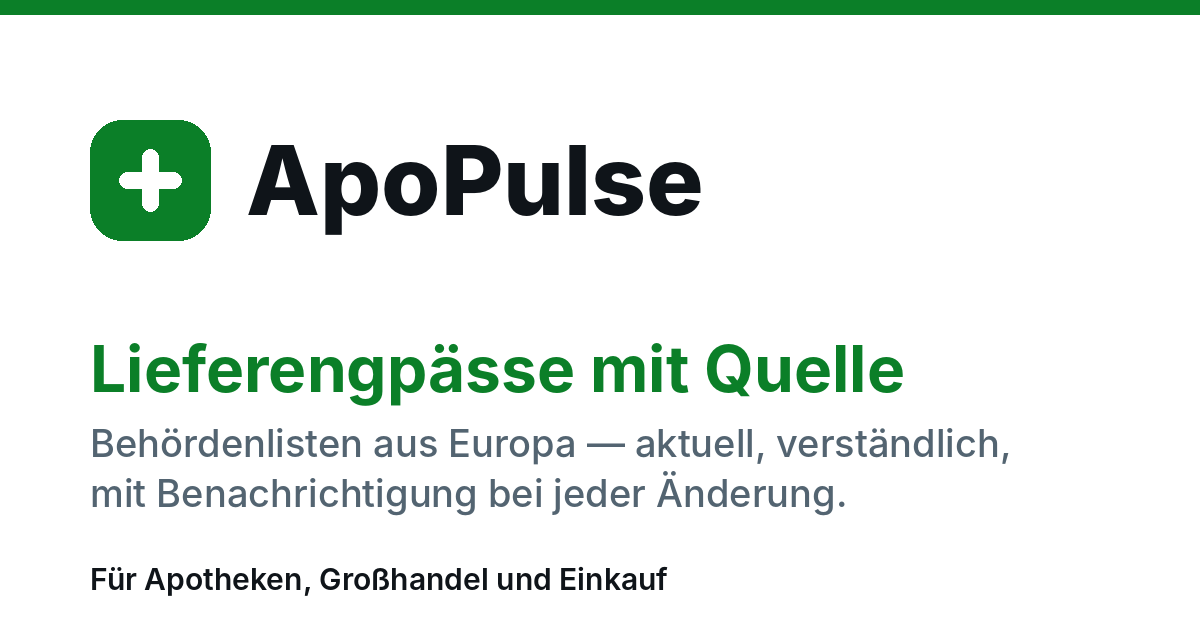
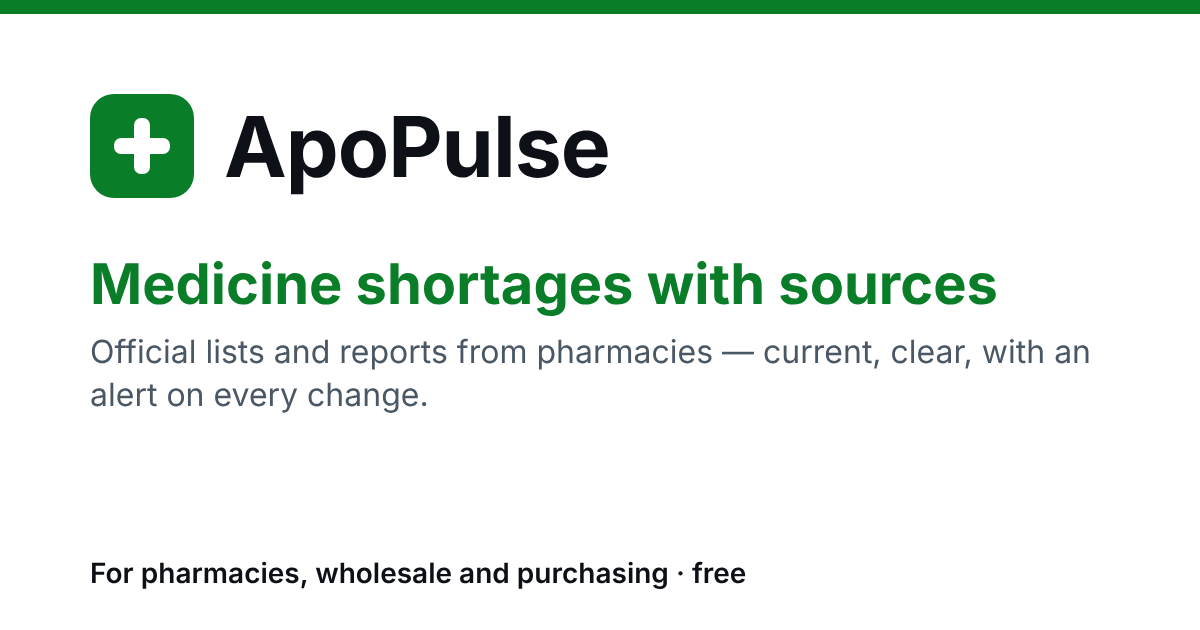
Vorschaubild beim Teilen in 5 Sprachen statt deutsch „aus Europa"
WhatsApp/Facebook/Telegram zeigten überall ein deutsches Bild („Behörden-
listen aus Europa") — auch in Ghana, Senegal, Ägypten. Jetzt og-bild-<sp>.png
(de/en/fr/pt/ar, 1200×630, erzeugt mit tools/og-bilder.mjs inkl. Überlauf-
und Überlappungsprüfung). Startseite nach Browsersprache, Teil- und
öffentliche Seiten nach Sprache der Seite, sonst Englisch; og-bild.png =
Englisch für alte Links. Tests: startseite-kopf, teilseite,
oeffentliche-seiten; Audit-Regel angepasst.

Claude-Session: https://claude.ai/code/session_01LkHA6azEL6CUgJiqn3gc6u

diff --git a/server/test/startseite-kopf.test.js b/server/test/startseite-kopf.test.js
@@ -35,7 +35,15 @@ test('Über HTTP: Kopf je Sprache, absolutes Vorschaubild, eigener ETag, App-Inh
     const en = await hol('en-UG,en;q=0.9');
     assert.match(en.t, /<meta property="og:title" content="ApoPulse — medicine shortages with sources" \/>/);
     assert.ok(!/aus Europa/.test(en.t), 'englische Vorschau mit „aus Europa"');
-    assert.match(en.t, /<meta property="og:image" content="https:\/\/apopulse\.example\/og-bild\.png" \/>/);
+    assert.match(en.t, /<meta property="og:image" content="https:\/\/apopulse\.example\/og-bild-en\.png" \/>/);
+    // Vorschaubild in der Sprache: französisch für Senegal/Côte d'Ivoire, arabisch für Ägypten.
+    assert.match((await hol('fr-SN,fr;q=0.9')).t, /<meta property="og:image" content="https:\/\/apopulse\.example\/og-bild-fr\.png" \/>/);
+    assert.match((await hol('ar-EG')).t, /og-bild-ar\.png/);
+    for (const sp of ['de', 'en', 'fr', 'pt', 'ar', '']) {
+      const bild = await fetch(B + '/og-bild' + (sp ? '-' + sp : '') + '.png');
+      assert.equal(bild.status, 200, sp); assert.equal(bild.headers.get('content-type'), 'image/png');
+      assert.ok((await bild.arrayBuffer()).byteLength > 20000, 'Bild leer: ' + sp);
+    }
     assert.match(en.r.headers.get('vary') || '', /Accept-Language/);
     const de = await hol('de-AT,de;q=0.9');
     assert.match(de.t, /og:title" content="ApoPulse — Lieferengpässe mit Quelle"/);
@@ -62,4 +70,17 @@ test('Manifest: Name und Schnellzugriffe in der Sprache des Browsers, kein Schne
   assert.ok(en.screenshots.every((b) => !/preise/.test(b.src) && !/[äöü]/.test(b.label)));
   assert.equal(JSON.parse(manifestSprache(roh, 'pt')).shortcuts[0].name, 'Ruturas');
   assert.equal(manifestSprache('kein json', 'en'), 'kein json');
+});
+
+test('Vorschaubilder: alle Sprachen vorhanden, 1200×630 (Format für WhatsApp/Facebook), og-bild.png = Englisch', async () => {
+  const { readFileSync } = await import('node:fs');
+  const ordner = new URL('../public/', import.meta.url);
+  for (const sp of ['de', 'en', 'fr', 'pt', 'ar']) {
+    const b = readFileSync(new URL(`og-bild-${sp}.png`, ordner));
+    assert.equal(b.toString('ascii', 12, 16), 'IHDR', sp);
+    assert.deepEqual([b.readUInt32BE(16), b.readUInt32BE(20)], [1200, 630], sp);
+  }
+  assert.ok(readFileSync(new URL('og-bild.png', ordner)).equals(readFileSync(new URL('og-bild-en.png', ordner))), 'Rückfallbild ist nicht das englische');
+  const { vorschaubild } = await import('../src/domain/vorschaubild.js');
+  assert.deepEqual(['fr', 'ar', 'sw', undefined, '../x'].map(vorschaubild), ['/og-bild-fr.png', '/og-bild-ar.png', '/og-bild-en.png', '/og-bild-en.png', '/og-bild-en.png']);
 });

diff --git a/server/test/teilseite.test.js b/server/test/teilseite.test.js
@@ -24,7 +24,10 @@ test('Seite: drei Aussagen, Quelle, Knopf mit Beobachtung, alles escaped', () =>
   const knapp = teilseite({ art: 'wirkstoff', land: 'AT', sprache: 'de', pfad: '/teilen/w/AT/Amoxicillin', wirkstoff: 'Amoxicillin', beobachtet_land: true, knapp: true, seit_tagen: 12, herkunft: 'verified', quelle: 'BASG', stand: '2026-10-01' }, { basis });
   assert.equal(meta(knapp, 'og:title'), 'Amoxicillin: knapp in Österreich seit 12 Tagen');
   assert.equal(meta(knapp, 'og:description'), 'Quelle: BASG · Stand: 01.10.2026');
-  assert.equal(meta(knapp, 'og:image'), 'https://apopulse.example/og-bild.png');
+  assert.equal(meta(knapp, 'og:image'), 'https://apopulse.example/og-bild-de.png');
+  // Senegal: Seite und Vorschaubild französisch (nicht das deutsche Bild).
+  assert.equal(meta(teilseite({ art: 'lage', land: 'SN', sprache: 'fr', pfad: '/teilen/lage/SN' }, { basis }), 'og:image'), 'https://apopulse.example/og-bild-fr.png');
+  assert.equal(meta(teilseite({ art: 'lage', land: 'XX', sprache: 'sw', pfad: '/teilen/lage/XX' }, { basis }), 'og:image'), 'https://apopulse.example/og-bild-en.png', 'unbekannte Sprache');
   assert.equal(meta(knapp, 'og:url'), 'https://apopulse.example/teilen/w/AT/Amoxicillin');
   assert.match(knapp, /href="\/\?land=AT&amp;beobachten=Amoxicillin"/);
 
@@ -85,7 +88,7 @@ test('Teilseiten über den Server: Behördenliste, unbekanntes Land, Aufrufe im 
     let html = await r.text();
     assert.match(meta(html, 'og:title'), /^Amoxicillin: knapp in Österreich/);
     assert.match(meta(html, 'og:description'), /Quelle: BASG/);
-    assert.equal(meta(html, 'og:image'), `http://localhost:${port}/og-bild.png`);
+    assert.equal(meta(html, 'og:image'), `http://localhost:${port}/og-bild-de.png`);
 
     r = await fetch(B + '/teilen/w/AT/Ibuprofen');
     assert.equal(meta(await r.text(), 'og:title'), 'Ibuprofen: in Österreich derzeit nicht als knapp gemeldet');
@@ -106,7 +109,7 @@ test('Teilseiten über den Server: Behördenliste, unbekanntes Land, Aufrufe im 
       }).on('error', fail);
     });
     assert.ok(!gefaelscht.includes('<script>a()'), 'Kopfzeile landet roh im HTML');
-    assert.equal(meta(gefaelscht, 'og:image'), 'http://x.example/og-bild.png');
+    assert.equal(meta(gefaelscht, 'og:image'), 'http://x.example/og-bild-de.png');
 
     assert.equal((await fetch(B + '/teilen/lage/XX')).status, 404);
     assert.equal((await fetch(B + '/og-bild.png')).headers.get('content-type'), 'image/png');

diff --git a/server/src/services/oeffentlicheSeiten.js b/server/src/services/oeffentlicheSeiten.js
@@ -21,6 +21,7 @@
 //   - Keine Anzeigen auf diesen Seiten (wie in der App: kein Werbeumfeld bei
 //     Engpässen).
 // ============================================================================
+import { vorschaubild } from '../domain/vorschaubild.js';
 import { wirkstoffSchluessel } from '../domain/inn.js';
 import { frLand } from '../domain/franzLand.js';
 import { richtung } from '../domain/schreibrichtung.js';
@@ -232,7 +233,7 @@ export function createOeffentlicheSeiten({ chronik, shortagesRepo, laender, stan
 <title>${esc(titel)} · ApoPulse</title>
 <meta name="description" content="${esc(beschr)}"><link rel="canonical" href="${esc(url)}">
 <meta property="og:type" content="website"><meta property="og:site_name" content="ApoPulse"><meta property="og:title" content="${esc(titel)}">
-<meta property="og:description" content="${esc(beschr)}"><meta property="og:url" content="${esc(url)}"><meta property="og:image" content="${esc(basis)}/og-bild.png">
+<meta property="og:description" content="${esc(beschr)}"><meta property="og:url" content="${esc(url)}"><meta property="og:image" content="${esc(basis)}${vorschaubild(sp)}">
 <meta name="twitter:card" content="summary_large_image"><link rel="icon" type="image/png" href="/icon-192.png">
 ${jsonld ? `<script type="application/ld+json">${JSON.stringify(jsonld).replace(/</g, '\\u003c')}</script>` : ''}
 <style>

diff --git a/server/src/http/startseiteKopf.js b/server/src/http/startseiteKopf.js
@@ -13,6 +13,7 @@
 // ============================================================================
 
 import { richtung } from '../domain/schreibrichtung.js';
+import { vorschaubild } from '../domain/vorschaubild.js';
 
 const KOPF = {
   de: {
@@ -62,7 +63,7 @@ export function startseiteKopf(html, { sp = 'en', basis = '' } = {}) {
     .replace(/<meta name="description" content="[^"]*" \/>/, `<meta name="description" content="${esc(K.beschr)}" />`)
     .replace(/<meta property="og:title" content="[^"]*" \/>/, `<meta property="og:title" content="${esc(K.titel)}" />`)
     .replace(/<meta property="og:description" content="[^"]*" \/>/, `<meta property="og:description" content="${esc(K.og)}" />`)
-    .replace(/<meta property="og:image" content="\/og-bild\.png" \/>/, `<meta property="og:image" content="${esc(basis)}/og-bild.png" />`);
+    .replace(/<meta property="og:image" content="\/og-bild\.png" \/>/, `<meta property="og:image" content="${esc(basis)}${vorschaubild(sp)}" />`);
 }
 
 // ── Manifest (App auf dem Startbildschirm) ───────────────────────────────────

diff --git a/server/test/oeffentliche-seiten.test.js b/server/test/oeffentliche-seiten.test.js
@@ -98,7 +98,7 @@ test('Über HTTP: Länder, Wirkstoffe, nur amtlich, 404, robots, Sitemap', { tim
     }
     // Übersicht und 404 in der Sprache des Browsers.
     const en = await (await fetch(B + '/engpaesse', { headers: { 'accept-language': 'en-UG,en;q=0.9' } })).text();
-    assert.match(en, /<html lang="en"/); assert.match(en, /Countries without an official list in ApoPulse/); assert.match(en, /href="\/engpaesse\/ug"/);
+    assert.match(en, /<html lang="en"/); assert.match(en, /og-bild-en\.png/, 'englische Übersicht mit fremdsprachigem Vorschaubild'); assert.match(en, /Countries without an official list in ApoPulse/); assert.match(en, /href="\/engpaesse\/ug"/);
     assert.match(await (await fetch(B + '/engpaesse/xx', { headers: { 'accept-language': 'en' } })).text(), /Page not found/);
     assert.match((await holen('/sitemap.xml')).text, /\/engpaesse\/ug</);
     for (const pfad of ['/engpaesse/at/gibtsnicht', '/engpaesse/xx', '/engpaesse/at/Amoxicillin', '/engpaesse/at/gemeldetin']) {

diff --git a/server/src/http/teilseite.js b/server/src/http/teilseite.js
@@ -15,6 +15,7 @@
 
 import { frLand } from '../domain/franzLand.js';
 import { richtung } from '../domain/schreibrichtung.js';
+import { vorschaubild } from '../domain/vorschaubild.js';
 
 const TEXTE = {
   de: {
@@ -162,7 +163,7 @@ export function teilseite(d, { basis }) {
   // Persönlicher Einladungs-Code (services/einladungen.js) — vom Server geprüft.
   if (d.einladung) ziel += `&e=${encodeURIComponent(d.einladung)}`;
   const url = `${basis}${d.pfad}`;
-  const bild = `${basis}/og-bild.png`;
+  const bild = `${basis}${vorschaubild(d.sprache)}`;
   const cta = d.art === 'lage' ? T.cta_lage : d.bitte ? T.cta_bestaetigen(d.wirkstoff) : T.cta_w(d.wirkstoff);
   return `<!DOCTYPE html>
 <html lang="${esc(d.sprache)}" dir="${richtung(d.sprache)}"><head><meta charset="UTF-8"><meta name="viewport" content="width=device-width, initial-scale=1">

diff --git a/server/src/domain/vorschaubild.js b/server/src/domain/vorschaubild.js
@@ -1,0 +1,5 @@
+// Vorschaubild (Open Graph) in der Sprache der Seite — erzeugt mit tools/og-bilder.mjs.
+// Bis 10/2026 zeigte jede Vorschau in WhatsApp & Co. ein deutsches Bild („Behördenlisten aus Europa"),
+// auch in Ghana oder Senegal. Unbekannte Sprache: Englisch.
+const SPRACHEN = new Set(['de', 'en', 'fr', 'pt', 'ar']);
+export const vorschaubild = (sp) => `/og-bild-${SPRACHEN.has(sp) ? sp : 'en'}.png`;

diff --git a/IMPROVEMENT_LOOP.md b/IMPROVEMENT_LOOP.md
@@ -3749,3 +3749,14 @@ alle Startseiten-Abrufe unter 15 ms (Median) — Lesen ist unkritisch. Zwei echt
 **Tests.** dauerbetrieb.test.js (3: Speichern bei Beiträgen alle 150 ms + Absturz mit SIGKILL + Neustart,
 Seiten öffentlich/Start ohne Doppelte, Oberfläche), benachrichtigungen-aufbewahren.test.js (3: Obergrenze,
 Alter + Laden, Abrufzeit bei 100 000 fremden Einträgen). 11 Gegenproben, alle rot.
+
+### Cycle · Vorschaubild beim Teilen (WhatsApp, Facebook, Telegram) in 5 Sprachen (2026-10-27)
+
+In Afrika verbreitet sich ApoPulse fast nur über geteilte Links — die Vorschau ist der erste Eindruck.
+Titel und Beschreibung waren schon je Sprache, **das Bild aber überall deutsch: „Lieferengpässe mit Quelle —
+Behördenlisten aus Europa"**, auch in Ghana, Senegal oder Ägypten. Jetzt `og-bild-<de|en|fr|pt|ar>.png`
+(1200×630, erzeugt mit `tools/og-bilder.mjs`, prüft dabei, dass kein Text überläuft oder überlappt):
+Startseite nach Browsersprache, Teilseiten und öffentliche Engpass-Seiten nach Sprache der Seite (Senegal →
+französisch), unbekannt → englisch. `og-bild.png` (alte Links) ist jetzt das englische Bild.
+**Tests.** startseite-kopf (+Bildgrößen, Sprachwahl), teilseite (+Senegal, unbekannte Sprache),
+oeffentliche-seiten. 4 Gegenproben, alle rot.
